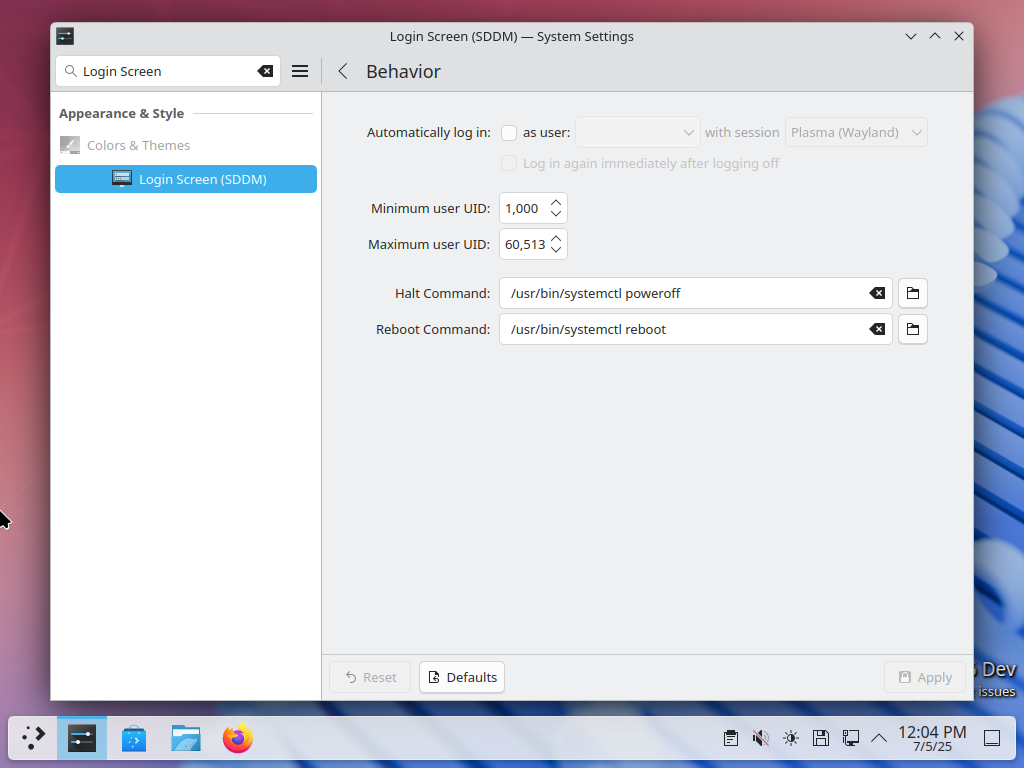
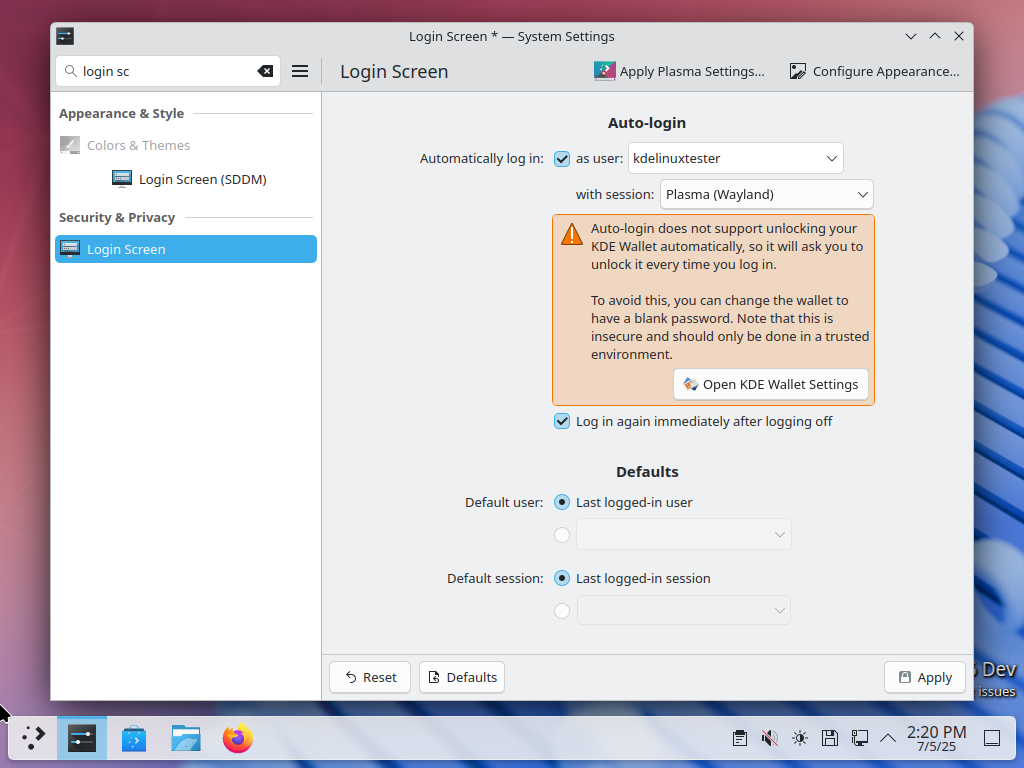
Add test: configure automatically login via systemsettings
- boot installed system up -> press super(windows) key to open kickoff -> search for system setting -> inside system setting, search for login screen(sddm) -> check automatically login as -> click apply, enter password -> switch to tty, type reboot -> wait desktop shows up without entering password.

- add needle and timeout parameters to KrunnerOpenStrategy and KickoffOpenStrategy. Unlike TTY and Konsole strategies which directly execute commands, KRunner and Kickoff often require time to populate search results, which means simply typing the app_name and pressing Enter is not sufficient , we need to insert an expect step between them to ensure the result is ready.

diff --git a/lib/sessions/base.py b/lib/sessions/base.py
@@ -1,3 +1,5 @@
+from time import sleep
+
 from testapi import *
 
 """
@@ -16,7 +18,7 @@ class BaseSession:
     allowed_open_strategies = ['krunner', 'konsole']
 
     @classmethod
-    def open(cls, method='krunner'):
+    def open(cls, method='krunner', **kwargs):
         if not cls.default_app_name:
             raise ValueError(f'{cls.__name__} must define a default app name')
         if not cls.allowed_open_strategies:
@@ -24,7 +26,7 @@ class BaseSession:
         if method not in cls.allowed_open_strategies:
             raise ValueError(f'{cls.__name__} open method {method} is not allowed')
         strategy = get_open_strategy(method)
-        strategy.open_app(cls.default_app_name)
+        strategy.open_app(cls.default_app_name, **kwargs)
         instance = cls()
         cls._current_instance = instance
         instance.expect_ready()
@@ -52,16 +54,23 @@ class BaseSession:
     def expect_ready(self, timeout=30):
         raise NotImplementedError(f"{self.__class__.__name__} must implement expect_ready()")
 
-    def type_and_submit(self, text):
+    def type_and_submit(self, text, **kwargs):
+        needle = kwargs.get('needle')
+        timeout = kwargs.get('timeout', 30)
         type_string(text)
+        if needle:
+            self.expect(needle, timeout)
         send_key('ret')
         return self
+
+    def expect_gui_password_pop_up(self, timeout=30):
+        return self.expect('gui_password_pop_up', timeout)
 
     def submit_gui_password(self):
         return self.type_and_submit('1122334455')
 
     def close_window(self):
-        self.send_key('alt-f4')
+        send_key('alt-f4')
         return self
 
 

diff --git a/tests/kdelinux/sddm/sddm_configure_automatic_login.py b/tests/kdelinux/sddm/sddm_configure_automatic_login.py
@@ -9,7 +9,7 @@ from lib.sessions.app.system_settings import SystemSettingsSession
 def run(self):
     (
         SystemSettingsSession
-            .open(method='kickoff')
+            .open(method='kickoff', needle='kickoff_system_settings_query_result', timeout=30)
             .click_system_settings_searchbar()
             .query('Login Screen ')  # Empty Space needed.
             .expect_system_settings_login_screen_sddm_page_query_result()
@@ -19,12 +19,15 @@ def run(self):
             .expect_system_settings_login_screen_sddm_page_initial_behavior_subpage()
             .click_system_settings_login_screen_sddm_page_automatically_login_checkbox()
             .click_system_settings_login_screen_sddm_page_apply_button()
+            .expect_gui_password_pop_up()
             .submit_gui_password()
     )
 
-def post_run_hook():
-    (
-        SystemSettingsSession
+    def teardown():
+        (
+            SystemSettingsSession
             .current()
             .close_window()
-    )
+        )
+
+    teardown()

diff --git a/tests/common/reboot.py b/tests/common/reboot.py
@@ -16,5 +16,8 @@ def run(self):
             .type_and_submit('reboot')
     )
 
-def post_run_hook(self):
-    assert_screen('bottom_panel_left_part', timeout, 30)
+    def teardown():
+        assert_screen('bottom_panel_left_part', "timeout", 30)
+
+    teardown()
+

diff --git a/lib/sessions/kickoff.py b/lib/sessions/kickoff.py
@@ -7,7 +7,7 @@ class KickOffSession(BaseSession):
 
     @classmethod
     def open(cls, method=None):
-        send_key('meta')
+        send_key('super')
         instance = cls()
         instance.expect_ready()
         return instance
@@ -19,4 +19,4 @@ class KickOffSession(BaseSession):
         return self.click('kickoff_searchbar', timeout=timeout, button=button)
 
     def click_kickoff_icon_on_panel(self, timeout=30, button='left'):
-        return self.click('kickoff-icon-on-panel', timeout, button)
+        return self.click('kickoff_icon_on_panel', timeout, button)

diff --git a/lib/strategies/__init__.py b/lib/strategies/__init__.py
@@ -1,4 +1,4 @@
-from lib.sessions.kickoff import KickOffSession
+from lib.strategies.kickoff import KickoffOpenStrategy
 from lib.strategies.konsole import KonsoleOpenStrategy
 from lib.strategies.krunner import KRunnerOpenStrategy
 from lib.strategies.tty import TTYOpenStrategy
@@ -7,5 +7,5 @@ OPEN_STRATEGIES = {
     'krunner' : KRunnerOpenStrategy(),
     'tty' : TTYOpenStrategy(),
     'konsole' : KonsoleOpenStrategy(),
-    'kickoff' : KickOffSession()
+    'kickoff' : KickoffOpenStrategy()
 }

diff --git a/lib/strategies/kickoff.py b/lib/strategies/kickoff.py
@@ -3,10 +3,10 @@ from lib.strategies.base import OpenStrategy
 
 
 class KickoffOpenStrategy(OpenStrategy):
-    def open_app(self, app_name):
+    def open_app(self, app_name, **kwargs):
         (
             KickOffSession
                 .open()
                 .click_kickoff_searchbar()
-                .type_and_submit(app_name)
+                .type_and_submit(app_name, **kwargs)
         )

diff --git a/lib/strategies/konsole.py b/lib/strategies/konsole.py
@@ -7,6 +7,6 @@ class KonsoleOpenStrategy(OpenStrategy):
     def open_app(self, app_name):
         (
             KonsoleSession
-                .open()
-                .type_and_submit(app_name)
+            .open()
+            .type_and_submit(app_name)
         )

diff --git a/lib/strategies/krunner.py b/lib/strategies/krunner.py
@@ -3,9 +3,9 @@ from lib.strategies.base import OpenStrategy
 
 
 class KRunnerOpenStrategy(OpenStrategy):
-    def open_app(self, app_name):
+    def open_app(self, app_name, **kwargs):
         (
             KRunnerSession
                 .open()
-                .type_and_submit(app_name)
+                .type_and_submit(app_name, **kwargs)
         )